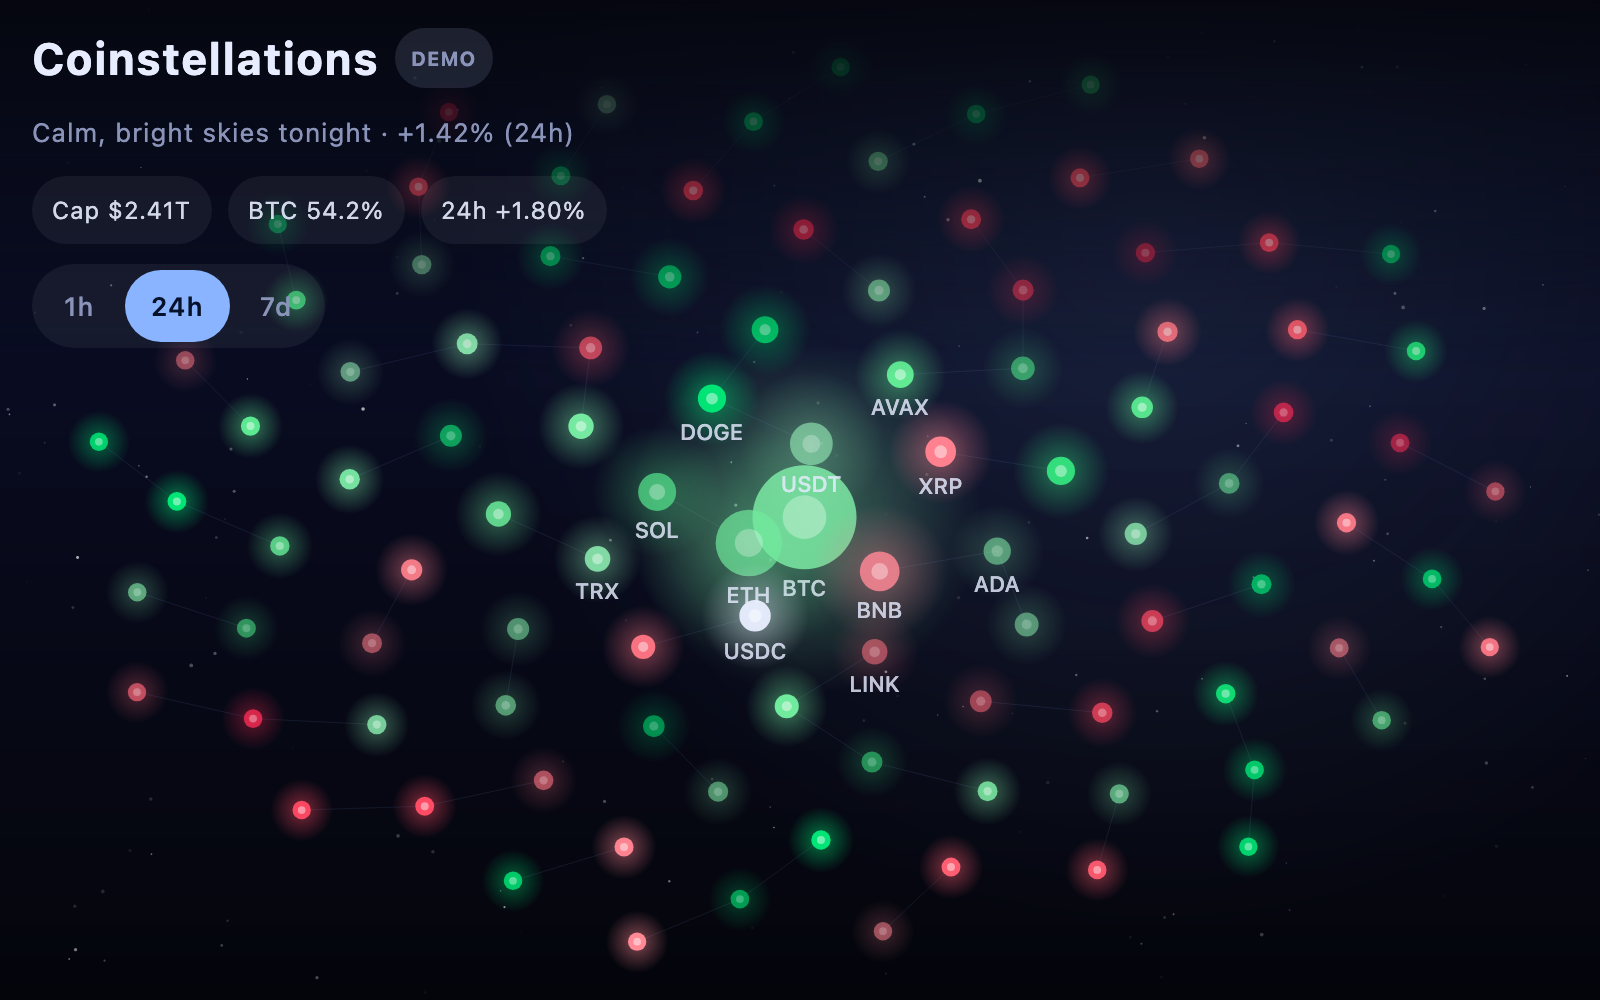
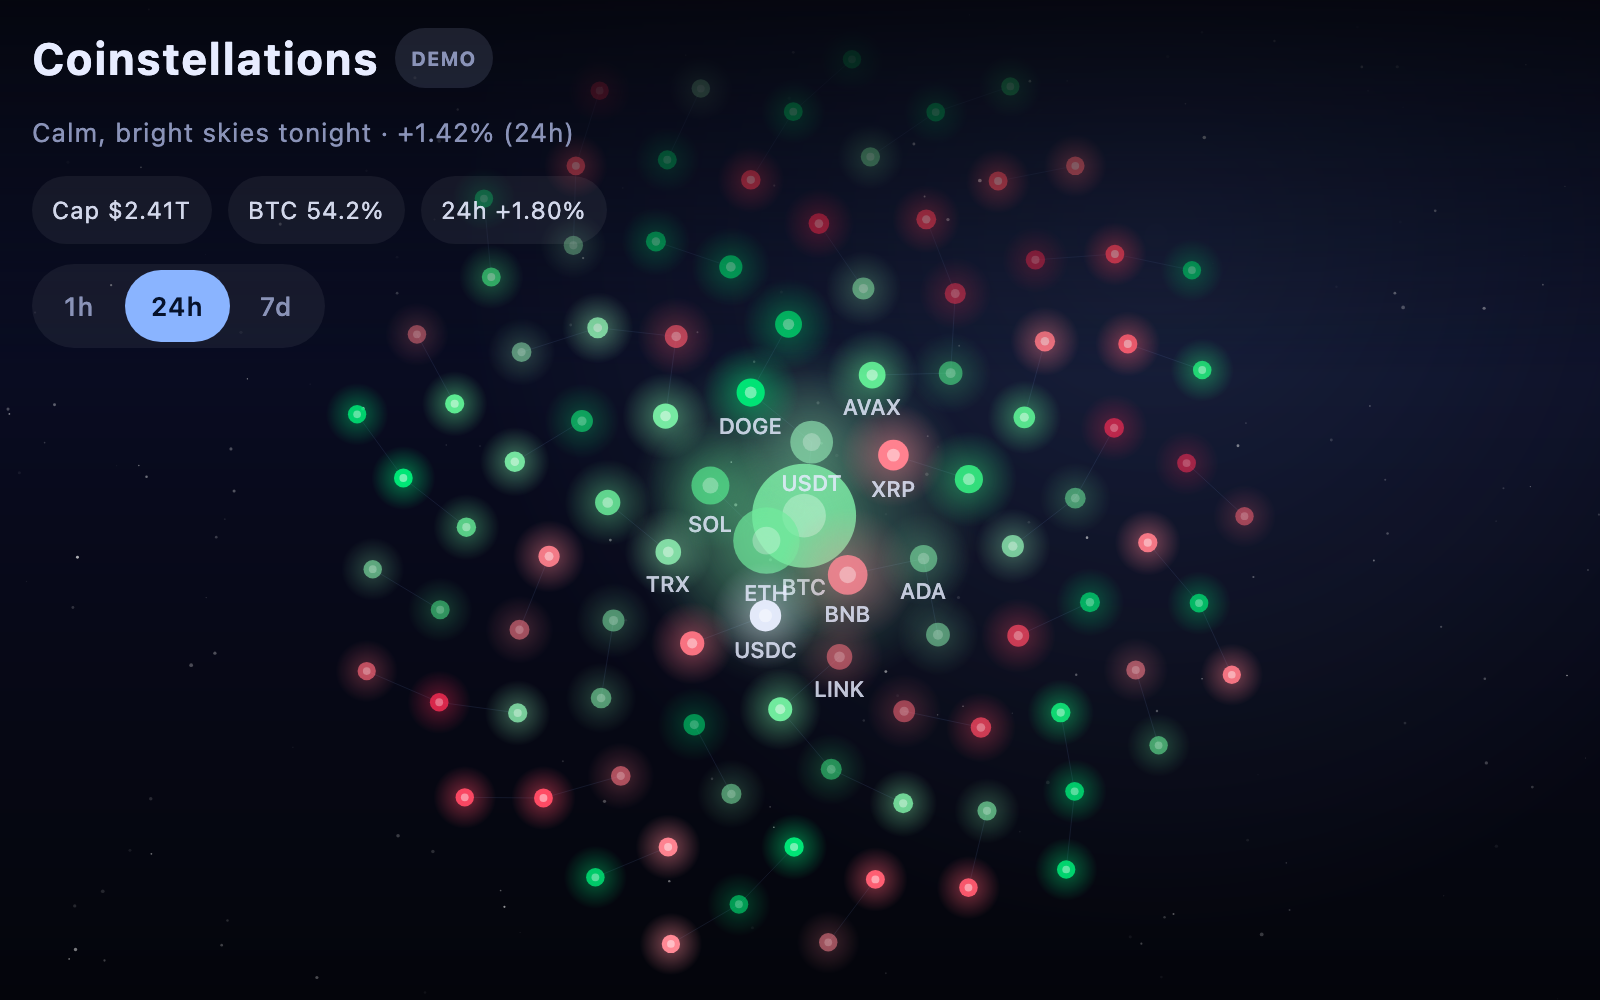
feat: drag to rotate the galaxy + idle auto-spin
Polar (golden-angle) star layout so the field rotates cleanly around its centre.
Drag anywhere spins it by the swept angle; hover still parallax-tilts; tap still
selects. Regenerated README visuals.

diff --git a/composeApp/src/commonMain/kotlin/io/github/vahan16/coinstellations/ui/SkyView.kt b/composeApp/src/commonMain/kotlin/io/github/vahan16/coinstellations/ui/SkyView.kt
@@ -1,6 +1,7 @@
 package io.github.vahan16.coinstellations.ui
 
 import androidx.compose.foundation.Canvas
+import androidx.compose.foundation.gestures.detectDragGestures
 import androidx.compose.foundation.gestures.detectTapGestures
 import androidx.compose.runtime.LaunchedEffect
 import androidx.compose.runtime.Composable
@@ -26,7 +27,9 @@ import androidx.compose.ui.unit.sp
 import io.github.vahan16.coinstellations.Timeframe
 import io.github.vahan16.coinstellations.changeFor
 import io.github.vahan16.coinstellations.data.Coin
+import kotlin.math.PI
 import kotlin.math.abs
+import kotlin.math.atan2
 import kotlin.math.cos
 import kotlin.math.hypot
 import kotlin.math.min
@@ -35,38 +38,41 @@ import kotlin.math.sqrt
 import kotlin.random.Random
 
 private const val GOLDEN_ANGLE = 2.399963f // radians, ~137.5°
+private const val LAYOUT_R = 0.47f          // galaxy radius as fraction of min dimension
+private const val AUTO_SPIN = 0.05f         // idle rotation, radians/sec
 
 private class Star(
     val coin: Coin,
-    val nx: Float,            // normalized 0..1 position
-    val ny: Float,
+    val ang: Float,          // layout angle (rad) — rotated by the user
+    val radFrac: Float,      // 0..1 distance from centre
     val radiusPx: Float,
     val color: Color,
     val twinkleSpeed: Float,
     val twinklePhase: Float,
-    val depth: Float,         // 0 (far) .. 1 (near) — drives parallax
-    val major: Boolean,       // draw a symbol label
+    val depth: Float,        // 0 (far) .. 1 (near) — parallax weight
+    val major: Boolean,
 )
 
 private class BgStar(val nx: Float, val ny: Float, val r: Float, val baseAlpha: Float, val speed: Float, val phase: Float, val depth: Float)
 
 private class Shooting(var x: Float, var y: Float, val vx: Float, val vy: Float, var life: Float, val maxLife: Float, val len: Float, val color: Color)
 
-/** Pointer-driven parallax: the whole field tilts toward the cursor/finger. */
-private class Tilt {
-    var targetX = 0f; var targetY = 0f
-    var x = 0f; var y = 0f
+/** Shared interaction state: pointer parallax + drag rotation. */
+private class Sky {
+    var targetX = 0f; var targetY = 0f // parallax target (-1..1)
+    var x = 0f; var y = 0f             // smoothed parallax
+    var rot = 0f                       // galaxy rotation (radians)
     var lastInputSec = -10f
 }
 
 /**
- * The market as a night sky. Each coin is a star (size = market cap, color = move,
- * twinkle = volatility); nearby stars link into constellations and big movers
- * streak across as shooting stars.
+ * The market as a night sky. Each coin is a star (size = market cap, colour = move,
+ * twinkle = volatility), laid out as a golden-angle galaxy.
  *
- * Interaction: move the cursor / drag a finger and the sky tilts in 3D — near
- * (large-cap) stars parallax more than far ones; the hovered star flares. Tap a
- * star to inspect it. When idle, the field drifts on its own.
+ * Interaction:
+ *  • **Drag** anywhere to spin the whole galaxy around its centre.
+ *  • **Move/hover** to tilt it in 3D — near (large-cap) stars parallax more than far ones; the hovered star flares.
+ *  • **Tap** a star to inspect it. Idle, it slowly spins and drifts on its own.
  */
 @Composable
 fun SkyView(
@@ -78,7 +84,7 @@ fun SkyView(
     var sizePx by remember { mutableStateOf(Size.Zero) }
     var nowSec by remember { mutableStateOf(0f) }
     val textMeasurer = rememberTextMeasurer()
-    val tilt = remember { Tilt() }
+    val sky = remember { Sky() }
 
     val bgStars = remember { buildBackgroundStars(count = 170) }
     val stars = remember(coins, timeframe, sizePx) {
@@ -100,13 +106,14 @@ fun SkyView(
                 last = t
                 nowSec += dt
 
-                // Parallax: follow the pointer, or drift gently when idle.
-                val idle = nowSec - tilt.lastInputSec > 2.5f
-                val desiredX = if (idle) sin(nowSec * 0.18f) * 0.55f else tilt.targetX
-                val desiredY = if (idle) cos(nowSec * 0.13f) * 0.35f else tilt.targetY
+                sky.rot += AUTO_SPIN * dt // gentle idle spin (drag adds on top)
+
+                val idle = nowSec - sky.lastInputSec > 2.5f
+                val desiredX = if (idle) sin(nowSec * 0.18f) * 0.5f else sky.targetX
+                val desiredY = if (idle) cos(nowSec * 0.13f) * 0.32f else sky.targetY
                 val k = min(1f, dt * 3.5f)
-                tilt.x += (desiredX - tilt.x) * k
-                tilt.y += (desiredY - tilt.y) * k
+                sky.x += (desiredX - sky.x) * k
+                sky.y += (desiredY - sky.y) * k
 
                 val iter = shooting.iterator()
                 while (iter.hasNext()) {
@@ -126,76 +133,94 @@ fun SkyView(
     Canvas(
         modifier = modifier
             .onSizeChanged { sizePx = Size(it.width.toFloat(), it.height.toFloat()) }
+            // hover → parallax (ignore while a finger/button is pressed; that's a rotate)
             .pointerInput(Unit) {
                 awaitPointerEventScope {
                     while (true) {
                         val event = awaitPointerEvent(PointerEventPass.Initial)
-                        val p = event.changes.lastOrNull()?.position
-                        if (p != null && size.width > 0 && size.height > 0) {
-                            tilt.targetX = ((p.x / size.width) * 2f - 1f).coerceIn(-1f, 1f)
-                            tilt.targetY = ((p.y / size.height) * 2f - 1f).coerceIn(-1f, 1f)
-                            tilt.lastInputSec = nowSec
+                        val c = event.changes.lastOrNull() ?: continue
+                        if (!c.pressed && size.width > 0 && size.height > 0) {
+                            sky.targetX = ((c.position.x / size.width) * 2f - 1f).coerceIn(-1f, 1f)
+                            sky.targetY = ((c.position.y / size.height) * 2f - 1f).coerceIn(-1f, 1f)
+                            sky.lastInputSec = nowSec
                         }
                     }
                 }
             }
-            .pointerInput(stars, sizePx) {
-                detectTapGestures { pos ->
-                    pickStar(stars, pos, sizePx, tilt.x, tilt.y)?.let(onSelect)
+            // drag → rotate the galaxy by the swept angle around the centre
+            .pointerInput(Unit) {
+                detectDragGestures { change, _ ->
+                    change.consume()
+                    val c = Offset(size.width / 2f, size.height / 2f)
+                    val prev = change.previousPosition - c
+                    val cur = change.position - c
+                    if (prev.getDistance() > 6f && cur.getDistance() > 6f) {
+                        var da = atan2(cur.y, cur.x) - atan2(prev.y, prev.x)
+                        if (da > PI) da -= (2 * PI).toFloat()
+                        if (da < -PI) da += (2 * PI).toFloat()
+                        sky.rot += da
+                        sky.lastInputSec = nowSec
+                    }
                 }
+            }
+            .pointerInput(stars, sizePx) {
+                detectTapGestures { pos -> pickStar(stars, pos, sizePx, sky)?.let(onSelect) }
             }
     ) {
         nowSec // subscribe to the animation clock
         val w = size.width
         val h = size.height
         val minDim = size.minDimension
+        val cx = w / 2f
+        val cy = h / 2f
+        val layoutR = minDim * LAYOUT_R
         val shift = minDim * 0.05f
-        val active = nowSec - tilt.lastInputSec <= 2.5f
-        val pointer = Offset((tilt.targetX + 1f) / 2f * w, (tilt.targetY + 1f) / 2f * h)
+        val active = nowSec - sky.lastInputSec <= 2.5f
+        val pointer = Offset((sky.targetX + 1f) / 2f * w, (sky.targetY + 1f) / 2f * h)
 
-        // Deep-space gradient
-        drawRect(Brush.verticalGradient(listOf(SpaceTop, SpaceMid, SpaceBottom)))
-        val nebula = Offset(w * 0.72f + tilt.x * shift, h * 0.22f + tilt.y * shift)
-        drawCircle(
-            brush = Brush.radialGradient(listOf(Accent.copy(alpha = 0.12f), Color.Transparent), center = nebula, radius = minDim * 0.7f),
-            radius = minDim * 0.7f, center = nebula,
-        )
-
-        // Background starfield (far → minimal parallax)
-        bgStars.forEach { b ->
-            val a = (b.baseAlpha * (0.55f + 0.45f * sin(nowSec * b.speed + b.phase))).coerceIn(0f, 1f)
-            drawCircle(Color.White.copy(alpha = a), b.r, Offset(b.nx * w + tilt.x * b.depth * shift, b.ny * h + tilt.y * b.depth * shift))
+        fun starPos(s: Star): Offset {
+            val a = s.ang + sky.rot
+            return Offset(
+                cx + cos(a) * s.radFrac * layoutR + sky.x * s.depth * shift,
+                cy + sin(a) * s.radFrac * layoutR + sky.y * s.depth * shift,
+            )
         }
 
-        // Constellation lines (between parallax-shifted stars)
-        edges.forEach { (a, b) ->
-            drawLine(
-                color = Accent.copy(alpha = 0.10f),
-                start = Offset(a.nx * w + tilt.x * a.depth * shift, a.ny * h + tilt.y * a.depth * shift),
-                end = Offset(b.nx * w + tilt.x * b.depth * shift, b.ny * h + tilt.y * b.depth * shift),
-                strokeWidth = 1f,
-            )
+        // Deep-space gradient + nebula
+        drawRect(Brush.verticalGradient(listOf(SpaceTop, SpaceMid, SpaceBottom)))
+        val nebula = Offset(w * 0.72f + sky.x * shift, h * 0.22f + sky.y * shift)
+        drawCircle(Brush.radialGradient(listOf(Accent.copy(alpha = 0.12f), Color.Transparent), center = nebula, radius = minDim * 0.7f), radius = minDim * 0.7f, center = nebula)
+
+        // Background starfield (does not rotate; far parallax only)
+        bgStars.forEach { b ->
+            val a = (b.baseAlpha * (0.55f + 0.45f * sin(nowSec * b.speed + b.phase))).coerceIn(0f, 1f)
+            drawCircle(Color.White.copy(alpha = a), b.r, Offset(b.nx * w + sky.x * b.depth * shift, b.ny * h + sky.y * b.depth * shift))
+        }
+
+        // Positions (rotated) for the coin stars
+        val pos = stars.map { starPos(it) }
+
+        // Constellation lines
+        edges.forEach { (i, j) ->
+            drawLine(Accent.copy(alpha = 0.10f), pos[i], pos[j], strokeWidth = 1f)
         }
 
         // Shooting stars
         shooting.forEach { s ->
-            val k = (s.life / s.maxLife).coerceIn(0f, 1f)
+            val kf = (s.life / s.maxLife).coerceIn(0f, 1f)
             val dir = hypot(s.vx, s.vy).coerceAtLeast(1f)
             val tail = Offset(s.x - s.vx / dir * s.len, s.y - s.vy / dir * s.len)
-            drawLine(
-                brush = Brush.linearGradient(listOf(Color.Transparent, s.color.copy(alpha = 0.9f * k)), start = tail, end = Offset(s.x, s.y)),
-                start = tail, end = Offset(s.x, s.y), strokeWidth = 2f,
-            )
-            drawCircle(s.color.copy(alpha = k), 2.2f, Offset(s.x, s.y))
+            drawLine(Brush.linearGradient(listOf(Color.Transparent, s.color.copy(alpha = 0.9f * kf)), start = tail, end = Offset(s.x, s.y)), start = tail, end = Offset(s.x, s.y), strokeWidth = 2f)
+            drawCircle(s.color.copy(alpha = kf), 2.2f, Offset(s.x, s.y))
         }
 
         // Coin stars
-        stars.forEach { star ->
-            val pos = Offset(star.nx * w + tilt.x * star.depth * shift, star.ny * h + tilt.y * star.depth * shift)
+        stars.forEachIndexed { idx, star ->
+            val p = pos[idx]
             var tw = 0.72f + 0.28f * sin(nowSec * star.twinkleSpeed + star.twinklePhase)
             var rad = star.radiusPx
             if (active) {
-                val d = hypot(pointer.x - pos.x, pointer.y - pos.y)
+                val d = hypot(pointer.x - p.x, pointer.y - p.y)
                 val reach = star.radiusPx * 4.5f + 28f
                 if (d < reach) {
                     val boost = 1f - d / reach
@@ -203,19 +228,13 @@ fun SkyView(
                     rad = star.radiusPx * (1f + boost * 0.35f)
                 }
             }
-            drawCircle(
-                brush = Brush.radialGradient(listOf(star.color.copy(alpha = 0.5f * tw), Color.Transparent), center = pos, radius = rad * 3.4f),
-                radius = rad * 3.4f, center = pos,
-            )
-            drawCircle(star.color.copy(alpha = (0.85f * tw + 0.15f).coerceIn(0f, 1f)), rad, pos)
-            drawCircle(Color.White.copy(alpha = 0.45f * tw), rad * 0.42f, pos)
+            drawCircle(Brush.radialGradient(listOf(star.color.copy(alpha = 0.5f * tw), Color.Transparent), center = p, radius = rad * 3.4f), radius = rad * 3.4f, center = p)
+            drawCircle(star.color.copy(alpha = (0.85f * tw + 0.15f).coerceIn(0f, 1f)), rad, p)
+            drawCircle(Color.White.copy(alpha = 0.45f * tw), rad * 0.42f, p)
 
             if (star.major) {
-                val layout = textMeasurer.measure(
-                    star.coin.symbol,
-                    style = TextStyle(color = OnSurface.copy(alpha = 0.82f), fontSize = 11.sp, fontWeight = FontWeight.Medium),
-                )
-                drawText(layout, topLeft = Offset(pos.x - layout.size.width / 2f, pos.y + rad + 3.dp.toPx()))
+                val layout = textMeasurer.measure(star.coin.symbol, style = TextStyle(color = OnSurface.copy(alpha = 0.82f), fontSize = 11.sp, fontWeight = FontWeight.Medium))
+                drawText(layout, topLeft = Offset(p.x - layout.size.width / 2f, p.y + rad + 3.dp.toPx()))
             }
         }
     }
@@ -230,19 +249,14 @@ private fun buildStars(coins: List<Coin>, tf: Timeframe, size: Size): List<Star>
     val maxR = minDim * 0.052f
     val minR = minDim * 0.009f
     val n = coins.size
-    val spread = 0.46f
     return coins.mapIndexed { i, coin ->
-        val angle = i * GOLDEN_ANGLE
-        val rad = sqrt(i.toFloat() / n)
-        val nx = 0.5f + rad * cos(angle) * spread
-        val ny = 0.5f + rad * sin(angle) * spread
         val mcNorm = sqrt(((coin.marketCap ?: 1.0) / maxMc).toFloat()).coerceIn(0f, 1f)
         val change = coin.changeFor(tf) ?: 0.0
         val rnd = Random(coin.id.hashCode().toLong())
         Star(
             coin = coin,
-            nx = nx.coerceIn(0.04f, 0.96f),
-            ny = ny.coerceIn(0.04f, 0.96f),
+            ang = i * GOLDEN_ANGLE,
+            radFrac = sqrt(i.toFloat() / n),
             radiusPx = (minR + (maxR - minR) * mcNorm),
             color = changeColor(change),
             twinkleSpeed = 0.6f + min(3.0, abs(change) / 3.0).toFloat(),
@@ -253,21 +267,24 @@ private fun buildStars(coins: List<Coin>, tf: Timeframe, size: Size): List<Star>
     }
 }
 
-private fun buildEdges(stars: List<Star>): List<Pair<Star, Star>> {
+private fun buildEdges(stars: List<Star>): List<Pair<Int, Int>> {
     if (stars.size < 2) return emptyList()
+    fun xy(s: Star) = Offset(cos(s.ang) * s.radFrac, sin(s.ang) * s.radFrac)
     val seen = HashSet<Long>()
-    val edges = ArrayList<Pair<Star, Star>>()
+    val edges = ArrayList<Pair<Int, Int>>()
     for (i in stars.indices) {
+        val a = xy(stars[i])
         var best = -1
         var bestD = Float.MAX_VALUE
         for (j in stars.indices) {
             if (i == j) continue
-            val d = hypot(stars[i].nx - stars[j].nx, stars[i].ny - stars[j].ny)
+            val b = xy(stars[j])
+            val d = hypot(a.x - b.x, a.y - b.y)
             if (d < bestD) { bestD = d; best = j }
         }
         if (best >= 0) {
             val key = (minOf(i, best).toLong() shl 20) or maxOf(i, best).toLong()
-            if (seen.add(key)) edges += stars[i] to stars[best]
+            if (seen.add(key)) edges += i to best
         }
     }
     return edges
@@ -303,15 +320,20 @@ private fun spawnShooting(size: Size, rnd: Random, warm: Boolean): Shooting {
     )
 }
 
-private fun pickStar(stars: List<Star>, pos: Offset, size: Size, tiltX: Float, tiltY: Float): Coin? {
+private fun pickStar(stars: List<Star>, tap: Offset, size: Size, sky: Sky): Coin? {
     if (stars.isEmpty() || size.minDimension <= 0f) return null
-    val shift = size.minDimension * 0.05f
+    val minDim = size.minDimension
+    val cx = size.width / 2f
+    val cy = size.height / 2f
+    val layoutR = minDim * LAYOUT_R
+    val shift = minDim * 0.05f
     var best: Star? = null
     var bestD = Float.MAX_VALUE
     for (s in stars) {
-        val sx = s.nx * size.width + tiltX * s.depth * shift
-        val sy = s.ny * size.height + tiltY * s.depth * shift
-        val d = hypot(pos.x - sx, pos.y - sy)
+        val a = s.ang + sky.rot
+        val sx = cx + cos(a) * s.radFrac * layoutR + sky.x * s.depth * shift
+        val sy = cy + sin(a) * s.radFrac * layoutR + sky.y * s.depth * shift
+        val d = hypot(tap.x - sx, tap.y - sy)
         if (d <= s.radiusPx + 16f && d < bestD) { bestD = d; best = s }
     }
     return best?.coin

diff --git a/README.md b/README.md
@@ -48,7 +48,7 @@
 
 - **A night sky of the market.** The top coins are laid out as a golden-angle galaxy — the biggest market caps sit near the centre as the brightest stars.
 - **Live, hand-drawn animation.** Stars twinkle, drift and link into constellations on a Compose `Canvas` driven by a `withFrameNanos` clock — no images, no chart library.
-- **Interactive 3D parallax.** Move the cursor or drag a finger and the sky tilts — large-cap (near) stars shift more than distant ones and the star under your pointer flares. Leave it alone and it drifts on its own.
+- **Grab & spin it.** Drag anywhere to rotate the whole galaxy around its centre. Hover/move to tilt it in 3D — large-cap (near) stars parallax more than far ones and the star under your pointer flares. Idle, it slowly spins and drifts on its own.
 - **Shooting stars for big movers.** The most volatile coins streak across the sky.
 - **Tap any star** for a detail sheet: price, 1h / 24h / 7d change, market cap, volume, supply, a price **sparkline** (24h → all-time) and project links.
 - **Timeframe toggle (1h / 24h / 7d)** instantly re-colours and re-sizes the whole sky, and the header shows the market "weather" (the average move).